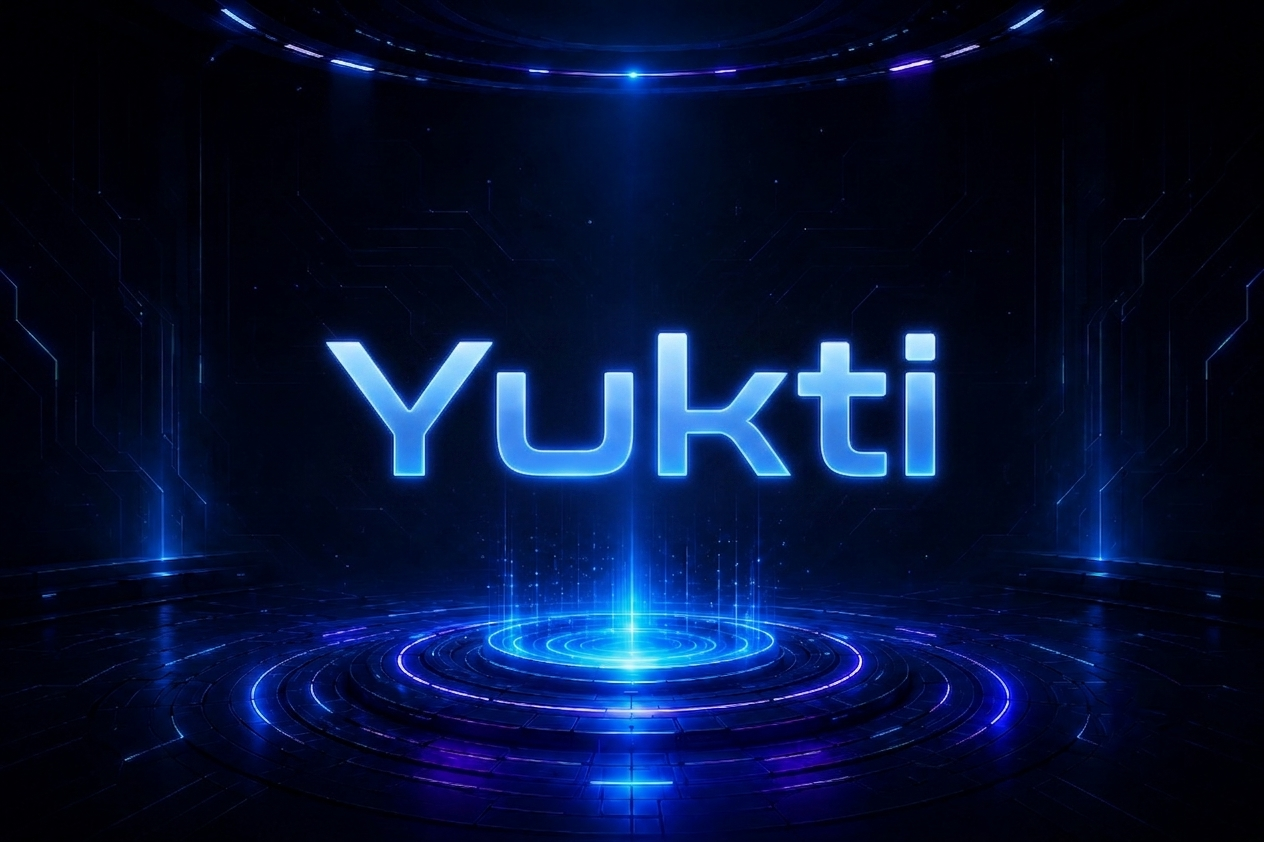
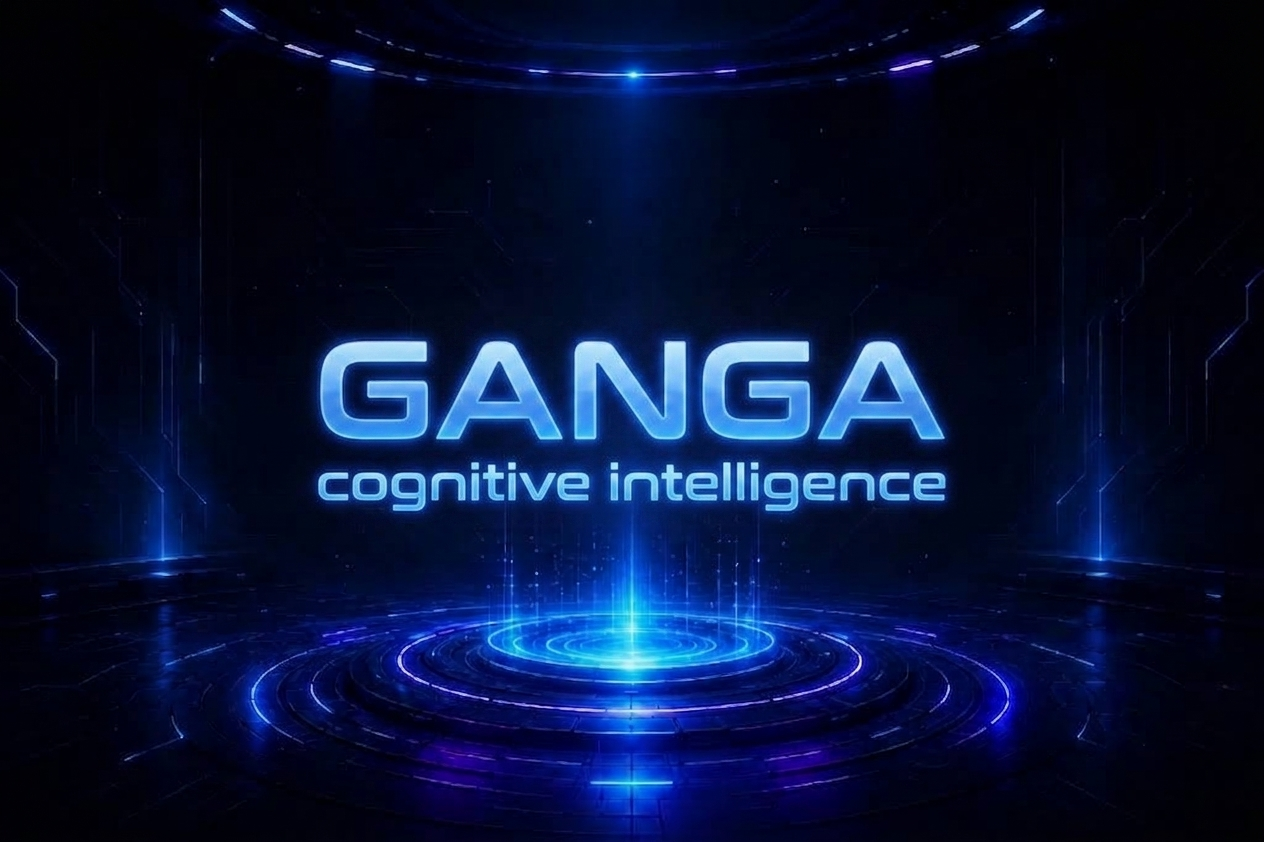
Welcome on board : GANGA

diff --git a/projects.html b/projects.html
@@ -68,7 +68,7 @@
       </div>
       <div class="project-card-body">
         <h3>Automation For Data Cleaning Process</h3>
-        <a class="card-link" href="https://adcp-to-the-yukti-v0.vercel.app/" target="_blank" rel="noopener" onclick="event.stopPropagation()">Final Version Coming soon <br> V1 Live Demo ↗</a>
+        <a class="card-link" href="https://ganga-cognitive-intelligence-v1.vercel.app/" target="_blank" rel="noopener" onclick="event.stopPropagation()">Final Version Coming soon <br> V1 Live Demo ↗</a>
         <span id="countdown"></span>
       </div>
     </div> 
@@ -251,10 +251,10 @@ var projects = {
     report: ''
   },
    p2: {
-    title: 'Yukti',
-    desc: 'Final version for the yukti will be publish soon...',
+    title: 'Ganga Cognitive Intelligence',
+    desc: 'Final version for the Ganga will be publish soon...',
     tech: 'Information Unavailable',
-    output: 'Automation for Data Cleaning Process',
+    output: 'Automation for Data Cleaning Process - coversion of raw data into valueable insights.',
     report: ''
   },
   p3: {
